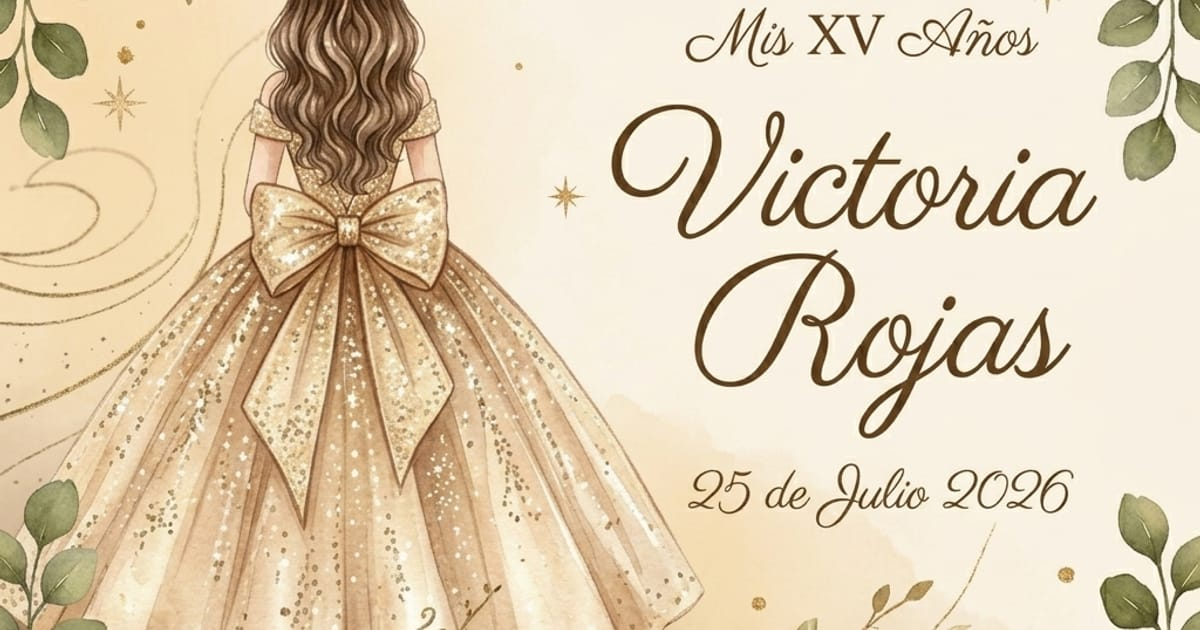
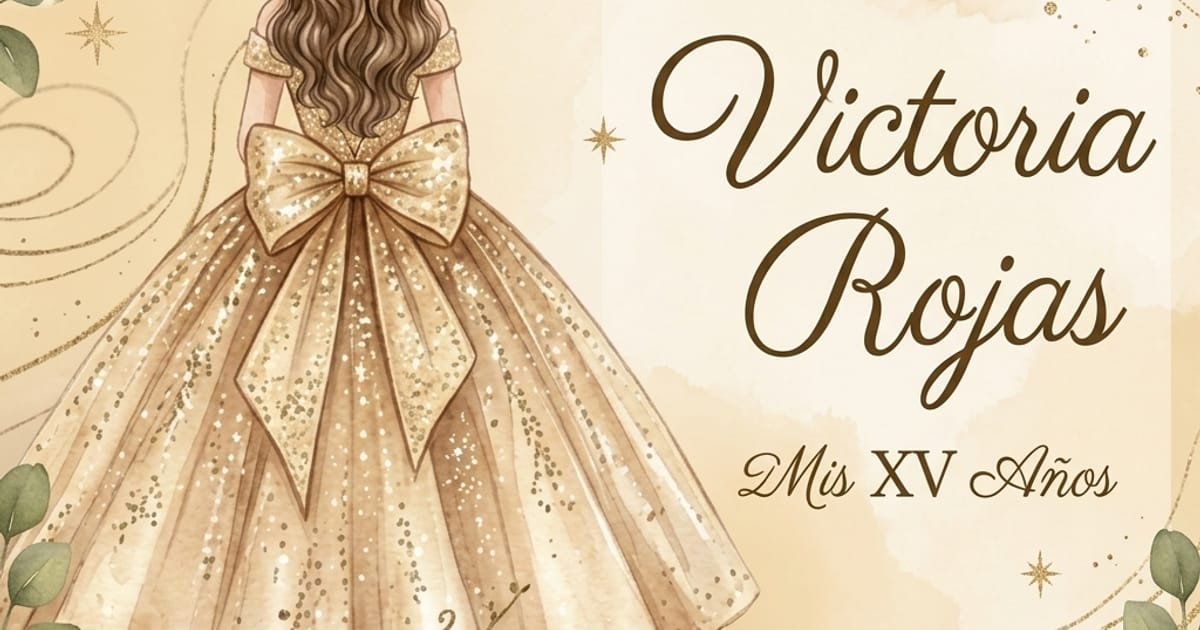
deploy: update invitations

diff --git a/src/invitations/victoria-rojas/HeroOverride.jsx b/src/invitations/victoria-rojas/HeroOverride.jsx
@@ -74,6 +74,7 @@ const HeroOverride = ({ data, basePath }) => {
                     loading="eager"
                     decoding="async"
                     className="w-full h-full object-cover transform-gpu"
+                    style={{ objectPosition: 'center bottom' }}
                 />
                 {/* Overlay en degradado cálido de champagne dorado */}
                 <div className="absolute inset-0 bg-gradient-to-t from-[#2E271F]/90 via-[#4A3F35]/35 to-[#F7E7CE]/15" />
